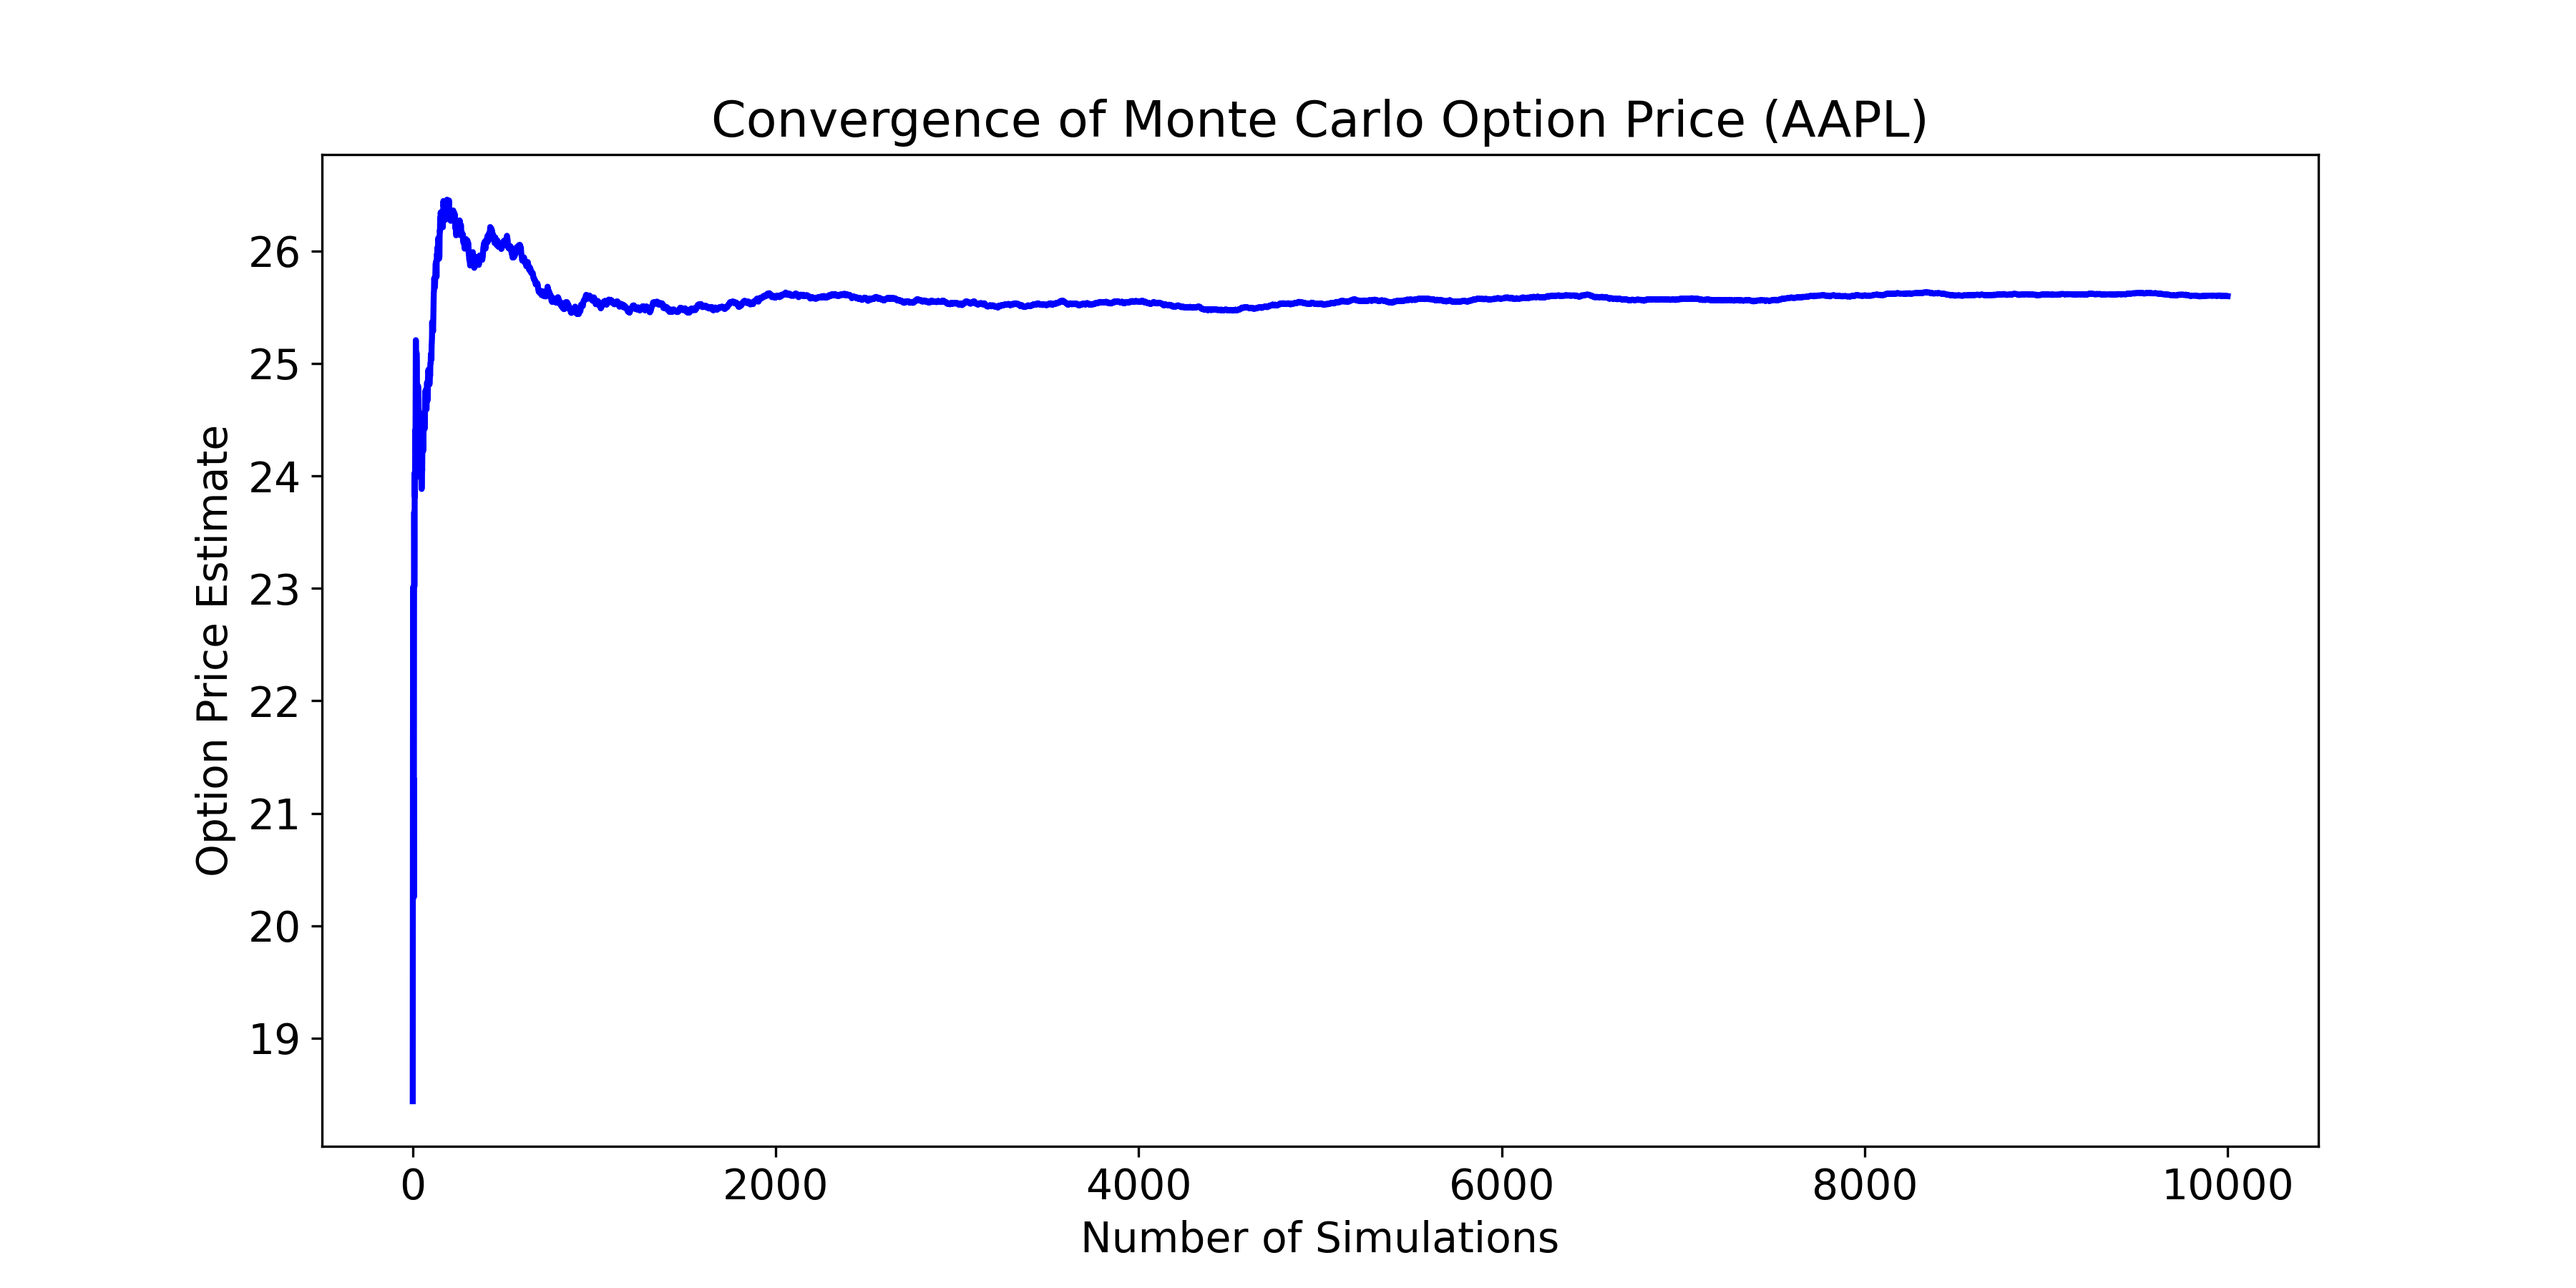
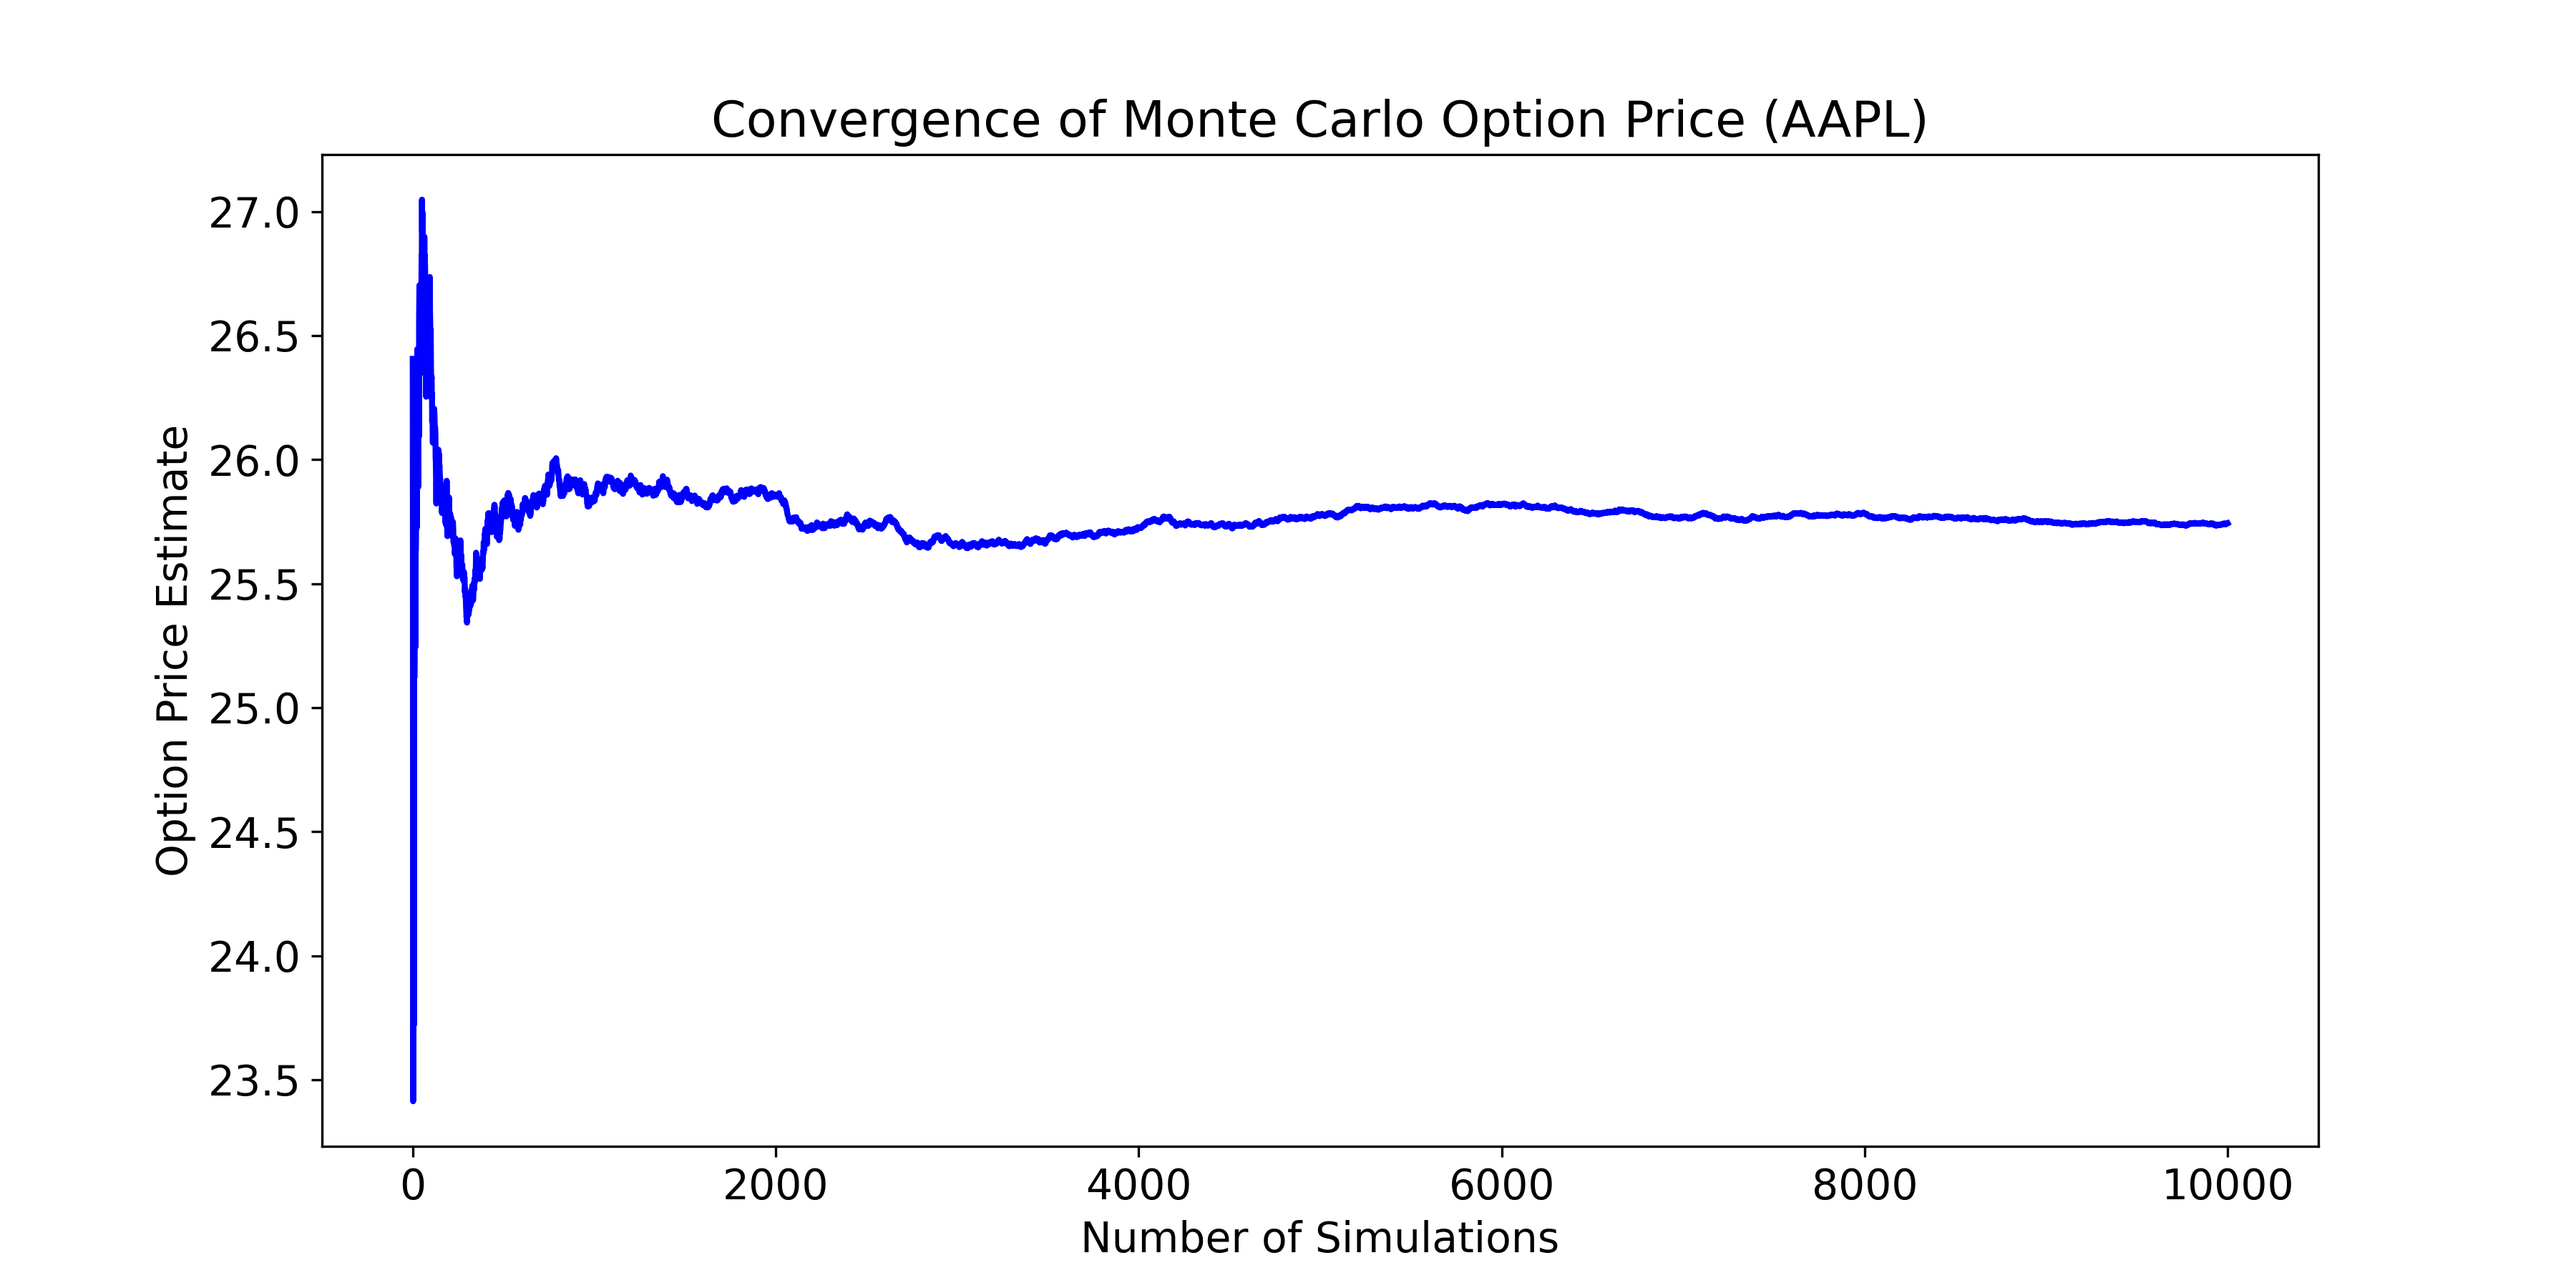
monte carlo step fixed

diff --git a/option_pricing_app.py b/option_pricing_app.py
@@ -129,12 +129,10 @@ def app():
 
 
             # # Calculate Binomial Tree price
-            bt_num_step = 100
-            bt_price = models.binomial_tree_option_price(bt_num_step)
+            bt_price = models.binomial_tree_option_price(N)
 
             # # Calculate Monte Carlo price
-            mc_num_sim = 10000
-            mc_price = models.monte_carlo_option_price(ticker=ticker, output_folder=OUTPUT_FOLDER, num_simulations=mc_num_sim)
+            mc_price = models.monte_carlo_option_price(ticker=ticker, output_folder=OUTPUT_FOLDER, num_simulations=num_simulations)
             # st.success("Calculation completed successfully! 🎉")
             with st.container():
                 st.success("Price Predictions (in USD):")
